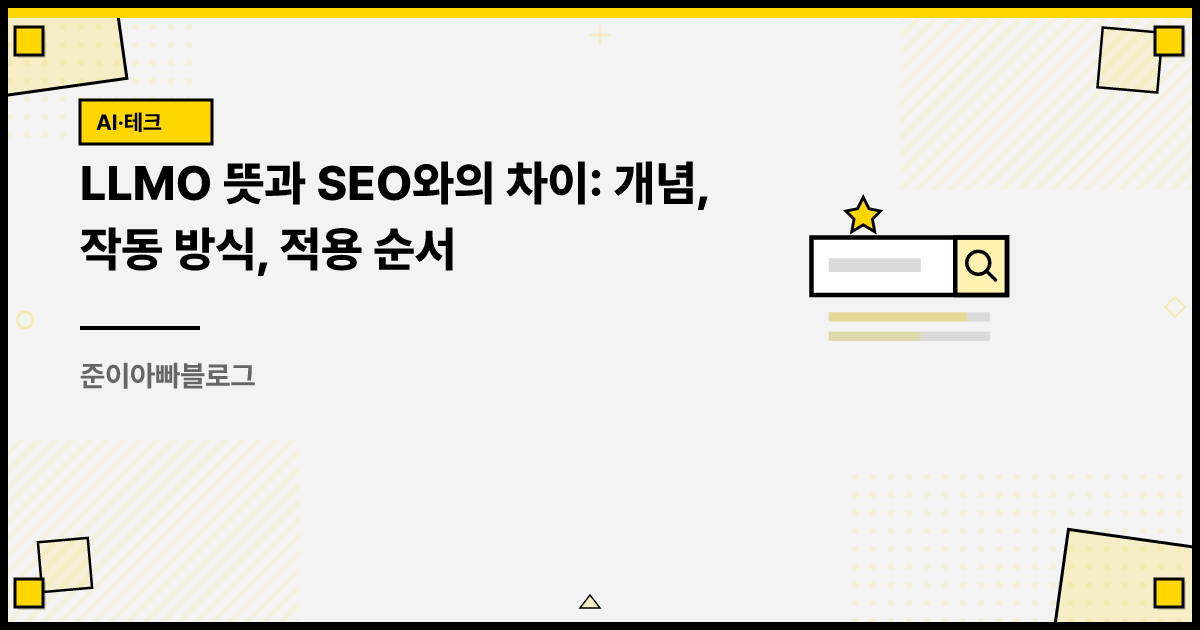
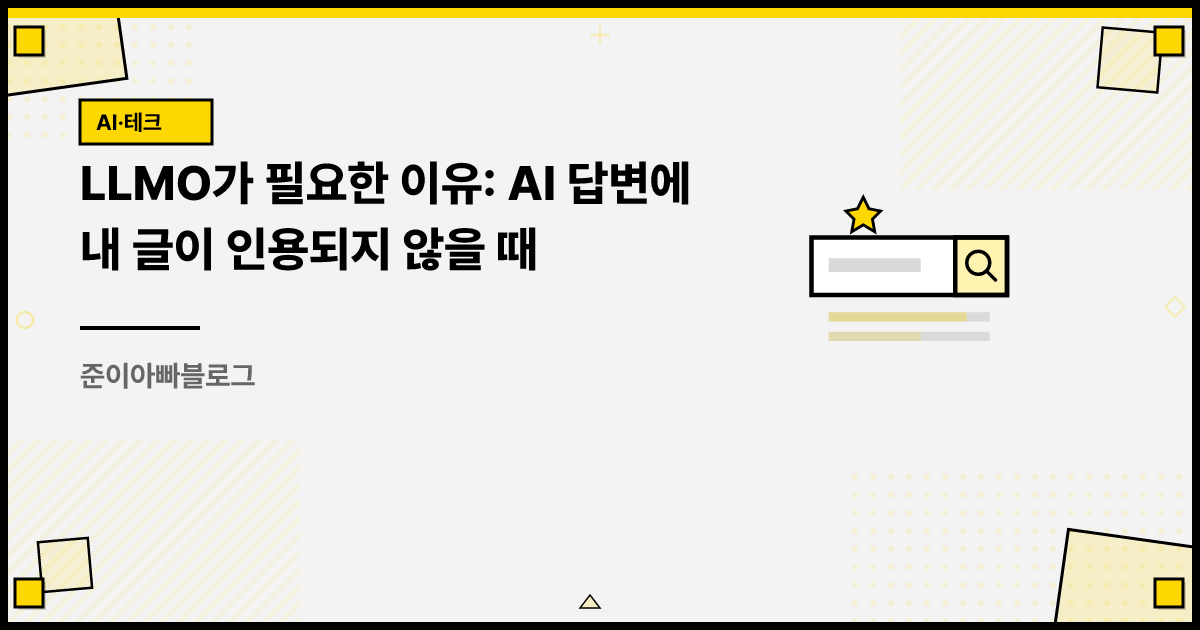
fix(insight): LLMO 글 제목을 상황형 후보로 교체
제목을 "LLMO가 필요한 이유: AI 답변에 내 글이 인용되지 않을 때"로 바꾸고
metaTitle, ogTitle을 함께 맞췄다. 상황형 제목이 건 약속을 본문이 받도록
도입부에 인용 누락 상황 문단을 넣고 예고 문장을 조정했다. og:image 재생성.

Claude-Session: https://claude.ai/code/session_015f2LqZPg9ydm8pm2ETYJ5i

Changed region(s): [[0.185, 0.2413, 0.5858, 0.3317], [0.0617, 0.3619, 0.4625, 0.4524]]

diff --git a/content/insights/llmo-concept-guide.md b/content/insights/llmo-concept-guide.md
@@ -1,6 +1,6 @@
 ---
 slug: llmo-concept-guide
-title: 'LLMO 뜻과 SEO와의 차이: 개념, 작동 방식, 적용 순서'
+title: 'LLMO가 필요한 이유: AI 답변에 내 글이 인용되지 않을 때'
 excerpt: >-
   LLMO는 대규모 언어 모델이 답변을 만들 때 내 문서를 찾아 읽고 인용하도록 콘텐츠를 다듬는 작업입니다. SEO, AEO, GEO와 무엇이
   다른지, 생성형 엔진이 문서를 고르는 순서는 어떻게 되는지, KDD 2024 논문이 실제로 검증한 기법은 무엇인지 정리했습니다.
@@ -13,11 +13,11 @@ publishedAt: '2026-08-04T02:00:00.000Z'
 highlights:
   - '통계와 인용문, 출처 표기를 본문에 넣는 것이 효과가 가장 컸습니다. 검색어 반복은 효과가 거의 없었습니다.'
   - 검색 순위가 이미 높은 문서라면 무리해서 손대지 마세요. 논문에서는 1위 문서의 인용 노출이 오히려 줄었습니다.
-metaTitle: 'LLMO 뜻과 SEO 차이: 대규모 언어 모델 최적화 정리'
+metaTitle: 'LLMO 뜻과 AI 답변 인용 원리: 대규모 언어 모델 최적화'
 metaDescription: >-
   LLMO는 대규모 언어 모델이 답변을 만들 때 내 문서를 찾아 읽고 인용하도록 콘텐츠를 다듬는 작업입니다. SEO, AEO, GEO와의
   차이와 생성형 엔진의 문서 선택 순서, 논문이 검증한 기법별 효과를 정리했습니다.
-ogTitle: 'LLMO 뜻과 SEO와의 차이: 개념과 작동 방식 정리'
+ogTitle: 'LLMO가 필요한 이유: AI 답변에 글이 인용되지 않을 때'
 ogDescription: '대규모 언어 모델이 문서를 고르는 순서와, KDD 2024 논문이 10,000개 검색어로 검증한 기법별 효과 차이를 짚었습니다.'
 ogImage: /og/llmo-concept-guide.png
 quiz:
@@ -34,7 +34,9 @@ quiz:
 
 LLMO는 대규모 언어 모델이 답변을 만들 때 내 문서를 찾아 읽고 인용하도록 콘텐츠를 다듬는 작업입니다. Large Language Model Optimization의 약자이고, 국내에서는 대규모 언어 모델 최적화로 옮겨 씁니다.
 
-이 용어가 아직 자리를 잡지 못한 상태라는 점을 먼저 말해 두겠습니다. LLMO, GEO, AEO는 업계에서 서로 다른 범위로 쓰이고 있고, 세 용어를 사실상 같은 뜻으로 쓰는 자료도 많습니다. 그래서 이 글은 용어 정의보다 **생성형 엔진이 문서를 고르는 순서**와 **그 순서에 개입할 수 있는 지점**을 중심에 두고 정리했습니다. 2026년 8월 기준입니다.
+이 작업이 필요해지는 상황은 대개 비슷합니다. 검색 결과에는 내 글이 나오는데 챗GPT나 구글 AI 답변에는 다른 사이트만 인용되는 경우입니다. 검색에서 위로 올리는 일과 답변에 인용되는 일은 서로 다른 조건을 보기 때문에, 순위를 올리던 방식을 그대로 반복해도 인용은 늘지 않습니다.
+
+용어 자체는 아직 자리를 잡지 못했습니다. LLMO, GEO, AEO는 업계에서 서로 다른 범위로 쓰이고 있고, 세 용어를 사실상 같은 뜻으로 쓰는 자료도 많습니다. 그래서 이 글은 용어 정의보다 **생성형 엔진이 문서를 고르는 순서**, **그 순서에서 인용이 갈리는 지점**, **손댔을 때 실제로 효과가 있었던 기법**을 중심에 두고 정리했습니다. 2026년 8월 기준입니다.
 
 ![생성형 엔진의 내부 구조도. 사용자 질의가 질의 재작성 모델을 거쳐 여러 개의 검색어로 나뉘고, 검색 엔진이 문서를 가져온 뒤 요약 모델과 응답 모델을 거쳐 사용자에게 답변이 전달되는 흐름](/images/insights/llmo-concept-guide/geo-overview.png)
 
